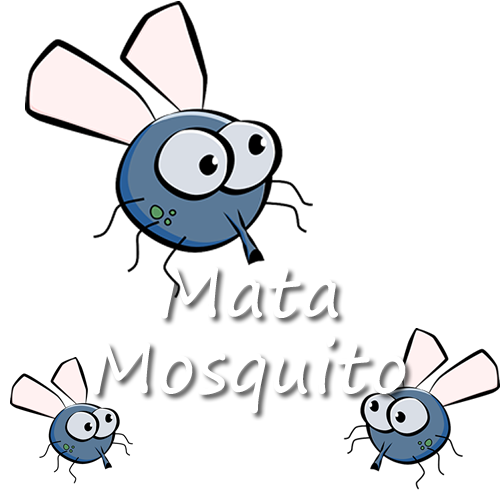
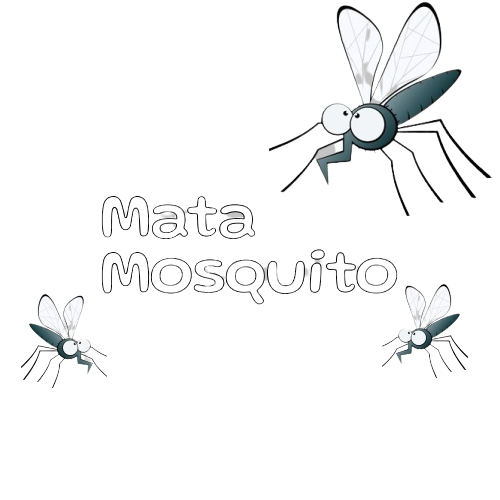
finaly game

diff --git a/src/app.js b/src/app.js
@@ -1,5 +1,16 @@
 let width = window.innerWidth
 let height = window.innerHeight
+let life = 1
+let time = 16
+let level = window.location.search.split('=')[1]
+
+if (level === 'facil') {
+  createsMosquitosTime = 1500
+} else if (level === 'medio') {
+  createsMosquitosTime = 1000
+} else if (level === 'dificil') {
+  createsMosquitosTime = 500
+}
 
 const pickUpHeightAndWidth = () => {
   width = window.innerWidth
@@ -7,10 +18,25 @@ const pickUpHeightAndWidth = () => {
 }
 window.addEventListener('resize', pickUpHeightAndWidth)
 
+const start = setInterval(() => {
+  time -= 1
+  if (time < 0) {
+    clearInterval(start)
+    clearInterval(createsStilt)
+    window.location.href = './victory.html'
+  } else {
+    document.querySelector('[data-js=stopwatch]').innerHTML = time
+  }
+}, 1000)
+
 const randomPosition = () => {
   if (document.querySelector('#fly')) {
     document.querySelector('#fly').remove()
-    document.querySelector('#v1').src = './src/assets/coracao_vazio.png'
+    life > 3
+      ? (window.location.href = './gameover.html')
+      : (document.querySelector(`#v${life}`).src =
+          './src/assets/coracao_vazio.png')
+    life++
   }
 
   let positionX = Math.floor(Math.random() * width) - 90
@@ -37,6 +63,10 @@ const randomPosition = () => {
   })
 }
 
+const createsStilt = setInterval(() => {
+  randomPosition()
+}, createsMosquitosTime)
+
 const randomSize = () => {
   const size = Math.floor(Math.random() * 3)
   switch (size) {
@@ -61,7 +91,3 @@ const sideRandom = () => {
       return 'right'
   }
 }
-
-setInterval(() => {
-  randomPosition()
-}, 1000)

diff --git a/victory.html b/victory.html
@@ -18,38 +18,23 @@
       <div class="row">
         <div class="col">
           <div class="d-flex justify-content-center">
-            <img src="./src/assets/game.png" alt="imagem de inicio do jogo" />
+            <img src="./src/assets/vitoria.png" alt="imagem de vitoria" />
           </div>
         </div>
       </div>
-
-      <div class="row">
-        <div class="col">
-          <div class="d-flex justify-content-center">
-            <div class="mb-2">
-              <select class="form-control" data-js="select">
-                <option value="">-- Selecione o nível --</option>
-                <option value="facil">Fácil</option>
-                <option value="medio">Médio</option>
-                <option value="dificil">Difícil</option>
-              </select>
-            </div>
-          </div>
-        </div>
-      </div>
-
       <div class="row">
         <div class="col">
           <div class="d-flex justify-content-center">
             <button
               type="button"
-              class="btn btn-danger btn-lg" data-js="btn">
-              Iniciar Jogo
+              class="btn btn-dark btn-lg"
+              onclick="window.location.href = './index.html'"
+            >
+              Reiniciar
             </button>
           </div>
         </div>
       </div>
     </div>
-    <script src="./src/index.js"></script>
   </body>
 </html>

diff --git a/gameover.html b/gameover.html
@@ -18,38 +18,23 @@
       <div class="row">
         <div class="col">
           <div class="d-flex justify-content-center">
-            <img src="./src/assets/game.png" alt="imagem de inicio do jogo" />
+            <img src="./src/assets/game-over.png" alt="fim de jogo" />
           </div>
         </div>
       </div>
-
-      <div class="row">
-        <div class="col">
-          <div class="d-flex justify-content-center">
-            <div class="mb-2">
-              <select class="form-control" data-js="select">
-                <option value="">-- Selecione o nível --</option>
-                <option value="facil">Fácil</option>
-                <option value="medio">Médio</option>
-                <option value="dificil">Difícil</option>
-              </select>
-            </div>
-          </div>
-        </div>
-      </div>
-
       <div class="row">
         <div class="col">
           <div class="d-flex justify-content-center">
             <button
               type="button"
-              class="btn btn-danger btn-lg" data-js="btn">
-              Iniciar Jogo
+              class="btn btn-dark btn-lg"
+              onclick="window.location.href = './index.html'"
+            >
+              Reiniciar
             </button>
           </div>
         </div>
       </div>
     </div>
-    <script src="./src/index.js"></script>
   </body>
 </html>

diff --git a/app.html b/app.html
@@ -1,0 +1,35 @@
+<!DOCTYPE html>
+<html lang="pt-BR">
+  <head>
+    <meta charset="UTF-8" />
+    <meta http-equiv="X-UA-Compatible" content="IE=edge" />
+    <meta name="viewport" content="width=device-width, initial-scale=1.0" />
+    <title>Game</title>
+    <link rel="stylesheet" href="./src/style.css" />
+  </head>
+  <body>
+    <div class="board">
+      <div class="life">
+        <img
+          src="./src/assets/coracao_cheio.png"
+          alt="imagem coração cheio"
+          id="v1"
+        />
+        <img
+          src="./src/assets/coracao_cheio.png"
+          alt="imagem coração cheio"
+          id="v2"
+        />
+        <img
+          src="./src/assets/coracao_cheio.png"
+          alt="imagem coração cheio"
+          id="v3"
+        />
+      </div>
+      <div class="time">
+        <p>Tempo restante: <span data-js="stopwatch"> </span></p>
+      </div>
+    </div>
+    <script src="./src/app.js"></script>
+  </body>
+</html>

diff --git a/src/index.js b/src/index.js
@@ -1,0 +1,8 @@
+const btn = document.querySelector('[data-js=btn]')
+
+btn.addEventListener('click', () => {
+  const select = document.querySelector('[data-js=select]')
+  select.value === ''
+    ? alert('Selecione um nível para iniciar o jogo')
+    : window.location.href = `./app.html?level=${select.value}`
+})

diff --git a/src/style.css b/src/style.css
@@ -2,6 +2,7 @@
   margin: 0;
   padding: 0;
   box-sizing: border-box;
+  cursor: url(./assets/mata_mosquito.png) 30 30, auto;
 }
 
 body {
@@ -42,7 +43,7 @@ body {
 
 .time {
   float: left;
-  font-size: 20px;
+  font-size: 19px;
   font-weight: bold;
 }
 
